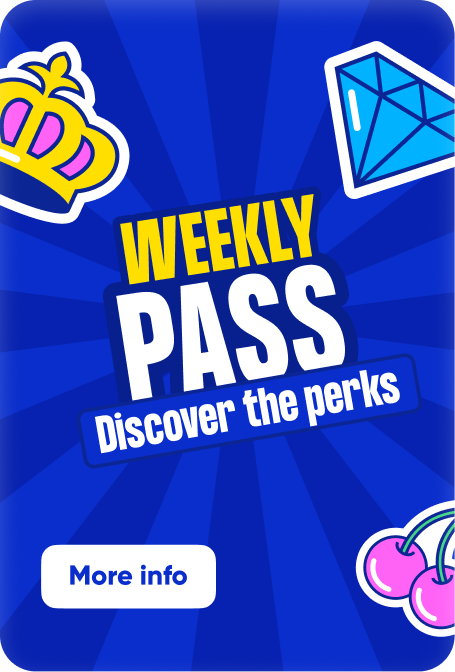
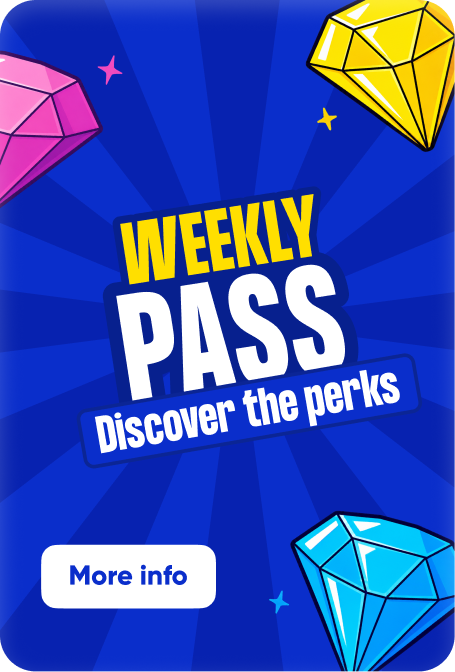
Fix missing assets + Weekly Pass gem rides with its card
• public/assets/nav-icons/diamond.svg was untracked — the
    BrandBar Link references it but it never made it into the
    repo, so Vercel served a 404 and the pill rendered empty.
    Add the file.
  • public/assets/hero/car1.png was modified locally but never
    staged. Commit the updated artwork so the lobby's first
    hero promo shows the new card image.
  • Weekly Pass: revert the cross-fading floating gem. Put the
    gem back inside each BenefitsCard (top: -15, right: 4, 118×
    118) so it slides horizontally alongside its card as the
    user swipes between tiers — no fade, just motion. To keep
    the gem's peek from being clipped by the rail viewport's
    overflow-hidden, the viewport extends 28px further up
    (marginTop -72 → -100) and each panel gains paddingTop: 28
    so the cards stay at the same visual position. Drop the now-
    unused AnimatePresence import.

diff --git a/src/components/views/WeeklyPassView.tsx b/src/components/views/WeeklyPassView.tsx
@@ -1,11 +1,6 @@
 "use client";
 
-import {
-  animate,
-  AnimatePresence,
-  motion,
-  useMotionValue,
-} from "framer-motion";
+import { animate, motion, useMotionValue } from "framer-motion";
 import { useRouter } from "next/navigation";
 import { useEffect, useRef, useState } from "react";
 
@@ -375,7 +370,13 @@ export function WeeklyPassView() {
       <div
         ref={viewportRef}
         className="relative overflow-hidden"
-        style={{ marginTop: -72 }}
+        // marginTop -100 (was -72) so the rail extends ~28px
+        // further up under the blue band. Paired with paddingTop:
+        // 28 on each panel, the cards stay at their original
+        // visual position but the gem (lifted with top: -15
+        // inside its card) lives entirely INSIDE the viewport's
+        // overflow-hidden box and isn't cropped at the top.
+        style={{ marginTop: -100 }}
       >
         <motion.div
           className="flex"
@@ -434,6 +435,13 @@ export function WeeklyPassView() {
                   width: panelWidth || "100%",
                   paddingLeft: 16,
                   paddingRight: 16,
+                  // 28px of top padding so the gem (which lifts
+                  // top: -15 inside its card) has room to render
+                  // without being cropped by the rail viewport's
+                  // overflow-hidden. The matching marginTop: -100
+                  // on the viewport keeps the card at the same
+                  // visual position on the page.
+                  paddingTop: 28,
                   gap: 16,
                 }}
               >
@@ -442,6 +450,7 @@ export function WeeklyPassView() {
                   worth={WORTH[t.id]}
                   benefits={benefits}
                   defaultBullet={defaultBullet}
+                  gemSrc={GEMS[t.id]}
                   // Pass the global active tier as the animation
                   // key so the benefits list reruns its staggered
                   // rise-up animation every time the user changes
@@ -475,57 +484,6 @@ export function WeeklyPassView() {
       </div>
 
       {/* ────────────────────────────────────────────────────────
-          Floating corner gem — lives outside the swipe rail's
-          overflow:hidden so its peek above the benefits card
-          isn't clipped. Anchored at the same visual spot as the
-          card's top-right corner (top: ~safe-area + 100, right:
-          ~20). Asset cross-fades when the tier changes so the
-          yellow / pink / blue gem swap reads as a single morph.
-          ──────────────────────────────────────────────────────── */}
-      <AnimatePresence mode="wait" initial={false}>
-        <motion.div
-          key={tier}
-          aria-hidden
-          className="pointer-events-none absolute"
-          style={{
-            // safe-area + 105 = previous resting position + 5px so
-            // the gem sits a touch lower on the seam. Size shaved
-            // 5% (124 → 118) for a slightly tidier ornament.
-            top: "calc(env(safe-area-inset-top) + 105px)",
-            right: 20,
-            width: 118,
-            height: 118,
-            transform: "rotate(15deg)",
-            zIndex: 6,
-          }}
-          initial={{ opacity: 0, scale: 0.88 }}
-          animate={{
-            opacity: 1,
-            scale: 1,
-            transition: { duration: 0.22, ease: [0.22, 1, 0.36, 1] },
-          }}
-          exit={{
-            opacity: 0,
-            scale: 0.92,
-            transition: { duration: 0.16, ease: [0.4, 0, 1, 1] },
-          }}
-        >
-          {/* eslint-disable-next-line @next/next/no-img-element */}
-          <img
-            src={GEMS[tier]}
-            alt=""
-            draggable={false}
-            style={{
-              display: "block",
-              width: "100%",
-              height: "100%",
-              objectFit: "contain",
-            }}
-          />
-        </motion.div>
-      </AnimatePresence>
-
-      {/* ────────────────────────────────────────────────────────
           Sticky footer — price selector + Start free trial CTA.
           Clamped to the mobile-frame column via --frame-right-offset
           so on desktop it hugs the 375px column rather than the
@@ -544,6 +502,7 @@ function BenefitsCard({
   worth,
   benefits,
   defaultBullet,
+  gemSrc,
   animationKey,
 }: {
   title: string;
@@ -552,6 +511,8 @@ function BenefitsCard({
   benefits: ReadonlyArray<Benefit>;
   /** Bullet style used when a benefit doesn't specify its own. */
   defaultBullet: Bullet;
+  /** Path to the corner gem PNG (yellow / pink / blue). */
+  gemSrc: string;
   /** Changes whenever the active tier changes — used as a remount
    *  key on the benefits list so the staggered rise animation
    *  replays. */
@@ -568,6 +529,39 @@ function BenefitsCard({
         gap: 16,
       }}
     >
+      {/* Corner diamond — anchored to the card's top-right edge so
+          it moves horizontally with the card as the user swipes
+          between tiers. Sized at 118 (5% smaller than the prior
+          124) and lifted top: -15 so a slim peek lands in the
+          blue band; the rest sits on the white card. The rail
+          viewport carries paddingTop:28 + marginTop:-100 so this
+          peek lives entirely inside the overflow-hidden region —
+          no clipping. The asset switches by tier. */}
+      <div
+        aria-hidden
+        className="pointer-events-none absolute"
+        style={{
+          top: -15,
+          right: 4,
+          width: 118,
+          height: 118,
+          transform: "rotate(15deg)",
+          zIndex: 5,
+        }}
+      >
+        {/* eslint-disable-next-line @next/next/no-img-element */}
+        <img
+          src={gemSrc}
+          alt=""
+          draggable={false}
+          style={{
+            display: "block",
+            width: "100%",
+            height: "100%",
+            objectFit: "contain",
+          }}
+        />
+      </div>
 
       {/* Title row: tier name + optional Worth pill. Right padded so
           the tier name doesn't collide with the corner gem. */}